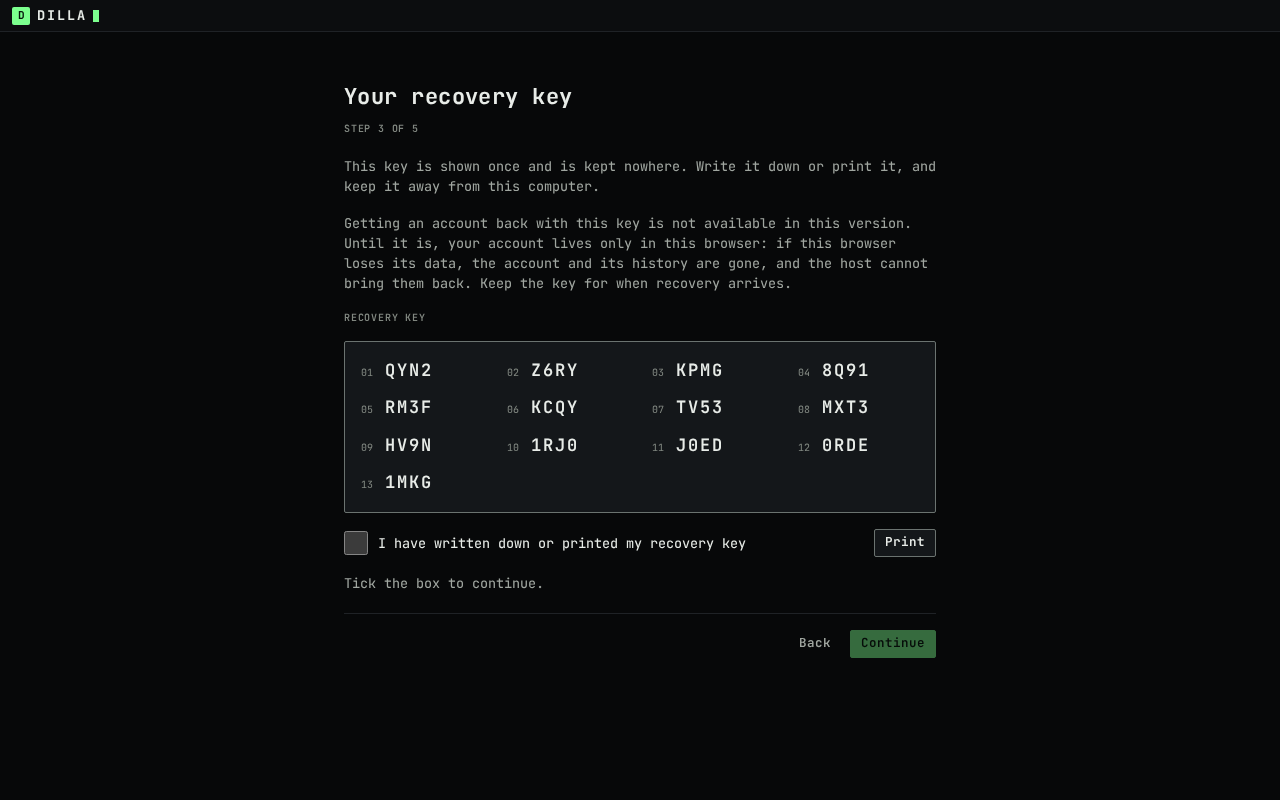
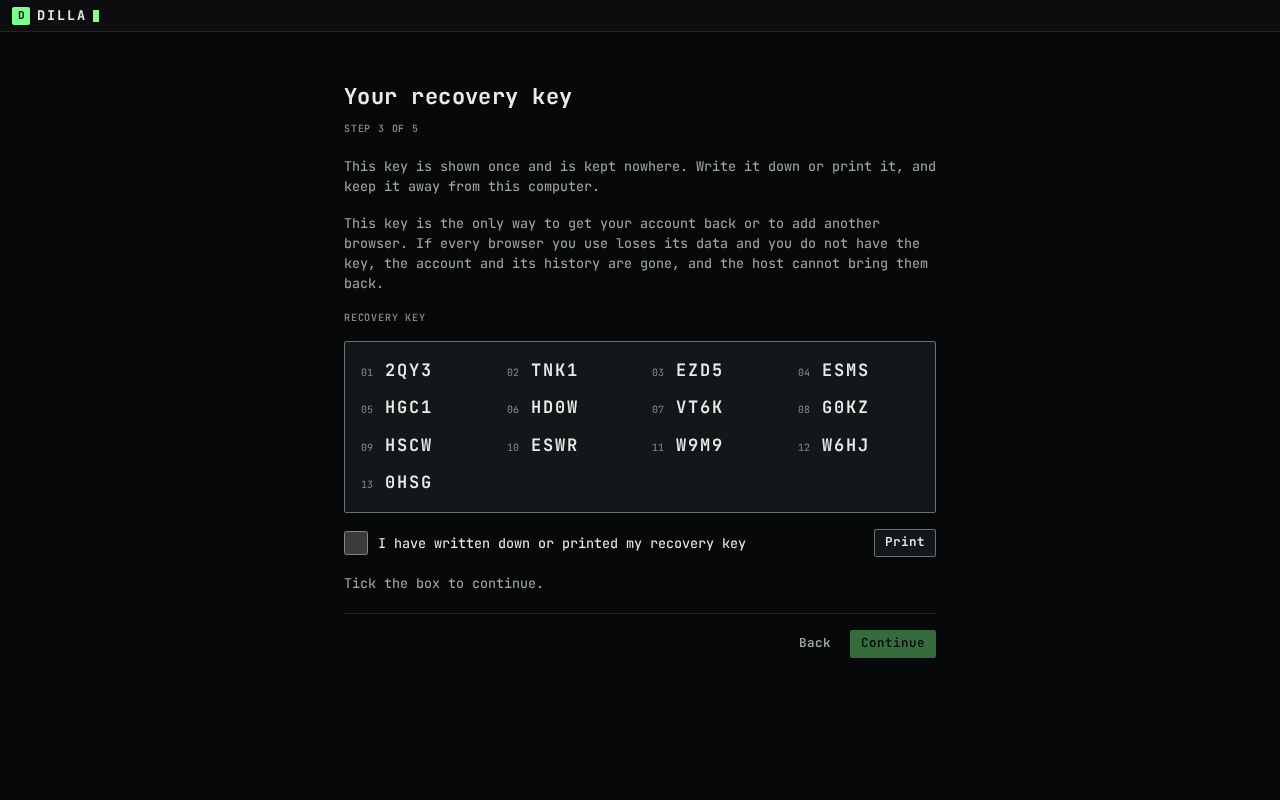
docs: update the web-2a guide and re-shoot user screenshots
Date the README and guide for the second-browser sign-in, Devices, notifications, badges and direct messages. Extend docs:shots to drive those screens against the real test host and publish sixteen fictional, compact PNGs. Record the headless Chromium permission-state illustration in the task report.

Claude-Session: https://claude.ai/code/session_01XLFud8eoDaqf8uiZq5wjuP

diff --git a/docs/user/getting-started.md b/docs/user/getting-started.md
@@ -1,8 +1,8 @@
 # Getting started with the dilla web client
 
 This page is for a person who has been sent an invite to a dilla instance. It describes the web client
-as it is on 2026-10-06 (the "web-1" slice): signing up in a browser, reading and sending text in a
-server's channels, and what the client cannot do yet. Every quoted line is the text the screen shows;
+as it is on 2026-10-07 ("web-2a"): signing up, adding a second browser, using channels and direct
+messages, and what the client cannot do yet. Every quoted line is the text the screen shows;
 `{instance}` stands for the instance's address and `{username}` for yours.
 
 If you run the instance yourself, start with the [operator guide](../deploy/README.md).
@@ -44,8 +44,8 @@ invite is expired, used up or unknown. Ask for a new one." An instance that take
   lower case. If someone has it already: "That username is taken. Try another."
 - **Display name (optional)**: "Up to 64 characters. Your username is shown when this is empty." This is
   the name shown on your messages.
-- **Password**: only when the instance offers passwords. "At least 8 characters." This version of the web
-  client never asks for it again: it signs in with the key this browser holds (section 3).
+- **Password**: only when the instance offers passwords. "At least 8 characters." Keep it: a second browser
+  asks for this password and your recovery key.
 
 Going forward from this step makes your keys. That can take a moment ("Making your keys").
 
@@ -59,11 +59,7 @@ it, and keep it away from this computer." **Print** opens the browser's print di
 the key and the two paragraphs, not the rest of the screen. There is no copy button, on purpose: the
 clipboard is readable by other programs. You can still select the text yourself.
 
-**What the key does not do yet.** The screen says it plainly: "Getting an account back with this key is not
-available in this version. Until it is, your account lives only in this browser: if this browser loses its
-data, the account and its history are gone, and the host cannot bring them back. Keep the key for when
-recovery arrives." Write it down anyway: it is the key a later version uses to get the account back, and it
-cannot be shown again once you leave this step.
+The screen says: "This key is the only way to get your account back or to add another browser. If every browser you use loses its data and you do not have the key, the account and its history are gone, and the host cannot bring them back." It cannot be shown again after you leave this step.
 
 Tick "I have written down or printed my recovery key" to continue ("Tick the box to continue.").
 
@@ -75,8 +71,7 @@ Tick "I have written down or printed my recovery key" to continue ("Tick the box
   browser."
 - "Clearing this site’s data removes the key and the messages kept here, and this browser stops being your
   device."
-- "This version cannot add a second browser or restore an account from the recovery key yet. For now, your
-  account works in this browser only."
+- "To use this account in another browser, sign in there with your password and this recovery key. Messages sent before that browser joins are not shown in it."
 - "A private window forgets all of this when it closes."
 
 **Create account** creates the account on the instance ("Creating your account on {instance}…").
@@ -94,7 +89,7 @@ If the invite was for the instance only, the app shows "You are not in a server 
 
 ## 3. What "this browser holds your key" means
 
-Your account in this version is this browser. When you sign up, the browser makes a key for itself (a
+Each browser you add is a device of your account. When you sign up, the browser makes a key for itself (a
 "device" key) and keeps it in its storage for the instance's address. The messages of a text channel are
 encrypted end to end with MLS (RFC 9420) between the members' devices, and the instance stores and forwards
 them encrypted. This browser decrypts them and keeps a copy in that same storage, itself encrypted with a key
@@ -105,9 +100,8 @@ version still trusts the instance to check which devices join a channel; see the
 What follows from that:
 
 - **Clearing the site's data** (the browser's "clear cookies and site data" for the instance, or removing
-  the browser profile) deletes the device key and the kept messages. The account then cannot be used from
-  this browser, and in this version it cannot be used from anywhere else either: the recovery key does not
-  restore it yet. The host cannot bring it back.
+  the browser profile) deletes that browser's device key and kept messages. You can add a fresh browser with
+  your password and recovery key, but messages from before it joins are not shown there.
 - **If only the key is gone** and the stored data is still there, the app says "This browser can no longer
   open its saved data" and offers **Reset this browser**, which, after "Reset this browser?", deletes dilla's
   data for this site so you can sign up again.
@@ -120,7 +114,7 @@ What follows from that:
 - **Another tab.** Only one tab runs dilla at a time. A second tab shows "dilla is open in another tab" and
   takes over when the first one closes.
 - **Signed out by the account.** If the account no longer accepts this browser, the app says "This browser
-  was signed out". There is no sign-out button in this version.
+  was signed out". Settings → Devices can remove a device or "sign out and remove this browser".
 
 ## 4. The app
 
@@ -130,10 +124,12 @@ in #general and the message field](screenshots/shell-conversation.png)
 From left to right:
 
 - **The server rail.** One tile per server you are in, with its initials. The dashed **+** tile is "join a
-  server": paste a server invite ("A server invite, as a code or a link.") and press **Join**.
+  server": paste a server invite ("A server invite, as a code or a link.") and press **Join**. The last tile
+  is "settings"; a number on a server tile counts its unread channels.
 - **The channel list.** The server's name and its channels. Text channels open here. Voice channels and
   channels the server can read ("Readable by this server") are listed, and selecting one shows "This channel
-  does not open here yet".
+  does not open here yet". The "channels" and "direct messages" tabs switch the list; an unread channel has
+  a badge, and mentions have their own count. Opening a channel marks it read.
 - **The conversation.** The channel's name and topic at the top, the messages, and the message field
   ("message #general") with **send**. Each message shows the author's display name, a small `web` tag when it
   was sent from a browser, and the time. A message is at most 4000 bytes; in the last 400 the field shows
@@ -157,6 +153,9 @@ At phone width the channel list sits above the conversation:
 | Escape | In the message list: back to the message field. In a dialog: closes it |
 | Tab, Shift+Tab | Moves between the regions: "skip to messages", the server rail, the channel list, the channel header, the messages, the message field, the status bar |
 | Arrow keys | Move within the server rail and the channel list, which are one Tab stop each |
+
+The sidebar tabs are one more Tab stop. Arrow Left and Arrow Right switch between "channels" and "direct messages".
+Settings uses Arrow Up, Arrow Down, Home and End to move between sections; Escape closes it.
 
 Every step of the sign-up works with the keyboard alone: Tab to a field or button, Space ticks the
 recovery-key box, Enter submits a step.
@@ -199,18 +198,60 @@ a short code (for example `E_CORE_MLS`) instead of its text. Nothing in this ver
 | "dilla could not start" | **Reload** |
 | "Too many attempts from this network." | Wait as long as it says, then try again |
 
-## 6. Known limits (2026-10-06)
+## 6. Add another browser
 
-- One browser per account. No second browser, phone or desktop app, and the recovery key restores nothing
-  yet (being built now).
-- No server, channel or invite can be created from the web client, and there are no roles, permissions,
-  settings, profile or sign-out screens. A server invite has to come from someone who can make one through
+![The sign-in ceremony's password step](screenshots/signin-1-login.png)
+
+On a new browser choose **Use an existing account**. "Sign in to {instance}" asks for your username and
+password. If the account uses a second factor, "Your second factor" asks for its six-digit code. Then
+"Your recovery key" says: "Type or paste the recovery key you wrote down when the account was created.
+Spaces and hyphens do not matter." **Add this browser** adds its device.
+
+![The recovery-key step of sign-in](screenshots/signin-3-recovery-key.png)
+
+The final step says "This browser is now a device of {username} on {instance}. Messages sent before now are
+not shown here." The new browser sees new messages, not the earlier channel archive. A rejected key says
+"This is not the recovery key of this account. Check every character." A registration 429 says "Too many
+sign-in attempts. Try again in {seconds} s." and asks you to wait briefly.
+
+![The final sign-in step](screenshots/signin-4-done.png)
+
+## 7. Devices and notifications
+
+Open **settings** in the server rail, then **devices**. "Every browser and app signed in to your account.
+Removing a device needs your recovery key." A row marked "this browser" is the one you are using. **remove**
+on another listed device asks for the recovery key; "sign out and remove this browser" clears this browser
+and removes its device. "forget this browser" clears its data here but leaves its device in the account list
+until removed elsewhere.
+
+![Two browsers in Settings → Devices](screenshots/settings-devices.png)
+
+Under **notifications**, "Desktop notifications show while a dilla tab is open. Nothing is shown when every
+tab is closed." Choose **turn on** to ask the browser for permission. The default "notify me about" choices
+are "direct messages and mentions", "every message" and "nothing". "Per channel" lets you choose "default",
+"all", "mentions" or "nothing", and "mute" a channel. A muted channel still shows its mention badge.
+
+![Notification permission before opt-in](screenshots/settings-notifications.png)
+
+![A channel and server rail with unread badges](screenshots/shell-unread-badge.png)
+
+In **direct messages**, choose **message someone**, pick a member and send text. Replies badge the DM until
+you open it. A DM that another member starts also appears without reloading.
+
+![A direct message with Ada](screenshots/dm-conversation.png)
+
+## 8. Known limits (2026-10-07)
+
+- No native phone or desktop app. A second browser needs both the password and recovery key. Pins are local
+  to one browser; a new browser does not get messages from before it joined.
+- No server, channel or invite can be created from the web client, and there are no roles, permissions or
+  profile screens. A server invite has to come from someone who can make one through
   the instance's API, or from the host (`dillad admin invite create`).
-- Text channels only. No DMs, no voice, camera or screen share (the server and the media layer support
+- Text channels and DMs only. No voice, camera or screen share (the server and the media layer support
   encrypted calls; the web client has no call screens yet).
 - Plain text only. No edits, deletes, reactions, replies, threads, mentions, attachments, link previews,
   markdown or emoji picker.
-- No search, notifications, unread markers, typing or presence.
+- No search, typing or presence. Notifications require an open tab and browser permission.
 - Messages from before this browser joined a channel are not shown.
 - No safety numbers and no device verification. The name on a message is the device that encrypted it, as
   the channel's encryption group authenticates it; nothing in the client checks yet that the device belongs
@@ -223,13 +264,13 @@ a short code (for example `E_CORE_MLS`) instead of its text. Nothing in this ver
 ## Re-shooting these screenshots
 
 The screenshots are real: `e2e/scripts/shoot-docs.mjs` starts a `dilla-testhost` that serves the built
-client, creates the server "Midgard Crew", signs ada, björn and mira up in three Chromium profiles and
-photographs mira's screens. Every name and message is made up, and the accounts are deleted with the test
+client, creates the server "Midgard Crew", signs ada, björn and mira up in three Chromium profiles, signs
+mira into a fourth, and photographs the flows. Every name and message is made up, and the accounts are deleted with the test
 host. To re-shoot them (not part of CI):
 
 ```sh
 npm run build -w @dilla/web
-GO=$(command -v go) npm run docs:shots -w @dilla/e2e
+GO=/home/thim/.local/go/bin/go TMPDIR=/tmp/w23 npm run docs:shots -w @dilla/e2e
 ```
 
 It needs `internal/mlswasi/testdata/dilla_core_wasi.wasm` and Playwright's Chromium, uses

diff --git a/README.md b/README.md
@@ -16,28 +16,27 @@ machine their group can reach can host it.
 
 ## What works today
 
-As of 2026-10-06.
+As of 2026-10-07.
 
 | Part | State |
 |---|---|
 | The server, `dillad` | Accounts and devices, servers (communities in the API), text channels, DMs, roles, permissions and channel overwrites, kicks and bans, invites, attachments (blobs), reports, encrypted backup objects; `dillad init`, `serve`, `doctor`, `backup`, `restore` and `admin`; TLS by ACME (TLS-ALPN, DNS or IP) or behind a proxy. Container image, systemd unit and Proxmox helper: see the [operator guide](docs/deploy/README.md). |
 | Encrypted calls, at the protocol and media level | Voice, camera and screen share through the in-process LiveKit SFU and TURN relay, with every media frame encrypted end to end (SFrame keys from MLS), driven by the browser package `packages/media` and tested in Chromium and Firefox. The web client has no call screens yet. |
-| The web client, first slice ("web-1") | Served by `dillad` from its own address. Sign up in a browser with an invite, see your servers and channels, read and send text in end-to-end encrypted channels, reload and keep the history. One tab at a time. Tested in Chromium and Firefox, and in WebKit for sign-up and reload. See [Getting started](docs/user/getting-started.md). |
+| The web client ("web-2a") | Served by `dillad` from its own address. Sign up with an invite, then add a second browser with your password and recovery key. Read and send text in channels and DMs; unread and mention badges appear in the channel list and server rail. Settings has devices, notifications and appearance; desktop notifications require opt-in and an open tab. Messages sent before a new browser joins are not shown there. One tab at a time per browser. Tested in Chromium and Firefox, and in WebKit for sign-up and reload. See [Getting started](docs/user/getting-started.md). |
 
 ![Step 3 of the sign-up: the recovery key, shown once](docs/user/screenshots/onboarding-3-recovery-key.png)
 
 ## What is not there yet
 
-As of 2026-10-06, in the web client:
+As of 2026-10-07, in the web client:
 
-- A second browser or device for an account, and getting an account back with the recovery key. The key is
-  shown at sign-up but restores nothing yet; this is being built now ("web-2a"). Until then an account
-  lives in one browser, and clearing that browser's site data loses it.
-- Creating servers, channels and invites, and any settings, roles, profile or sign-out screens. A server
+- A native app or phone client. The recovery key adds another browser with the account password; it does not
+  restore messages sent before that browser joined. Pins are not shared between browsers.
+- Creating servers, channels and invites, or editing roles, permissions and profiles in the web client. A server
   is created through the HTTP API today.
-- DMs, voice, camera and screen share.
+- Voice, camera and screen share in the web client.
 - Edits, deletes, reactions, replies, threads, mentions, attachments and link previews.
-- Search, notifications, unread markers, typing and presence.
+- Search, typing and presence. Desktop notifications stop when every tab is closed.
 - Safety numbers and device verification.
 - More than one open tab per browser (a second tab waits for the first).
 
